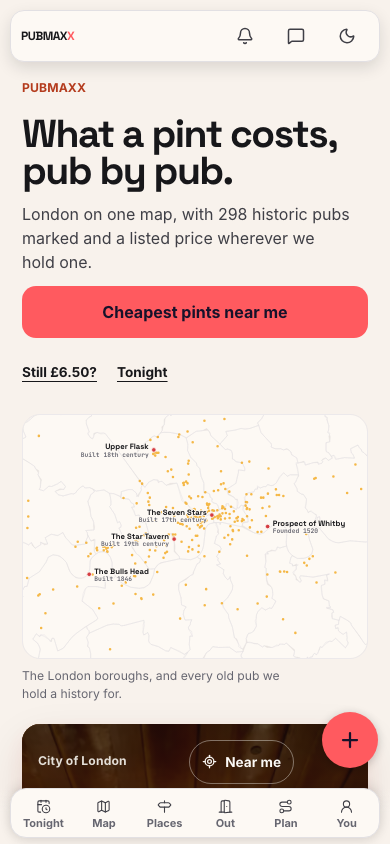
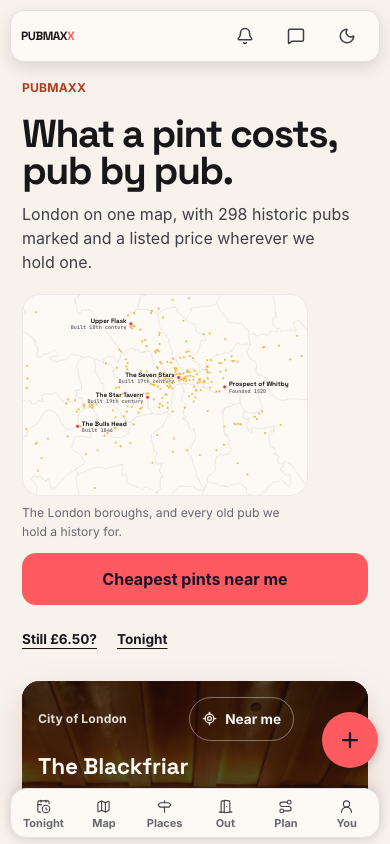
no-mistakes(review): Keep hero picture-before-primary; size drawing from viewport height

diff --git a/components/landing/landing.css b/components/landing/landing.css
@@ -617,31 +617,23 @@ a.lpPubPint:hover { color: var(--ink); }
   .lpAnswerCard { width: 100%; }
 }
 
-/* Phone: the answer sits between the heading and the tap, so the heading
-   gives up one size step and the card its outer padding, and the whole
-   screen still reads kicker, claim, answer, action inside 844px. */
+/* Below the desktop grid the picture sits between the lede and the one filled
+   action, so it is drawn from the screen's height rather than its width: the
+   primary stays above the fold on a short phone, and the figure stops short of
+   the compose action's lane. */
 @media (max-width: 959px) {
-  /* Phone: headline and the one filled action stay above the fold; the London
-     drawing follows. DOM order is unchanged for desktop grid and SSR tests;
-     visual order is kicker, claim, lede, actions, picture. */
-  .lpHero .screenHead {
-    display: grid;
-  }
-  .lpHero .screenHead > .kicker { order: 1; }
-  .lpHero .screenTitle { order: 2; }
-  .lpHero .screenLede { order: 3; }
-  .lpHero .screenActions { order: 4; margin-top: 0; }
-  .lpHero .screenAnswer { order: 5; margin-top: var(--space-2); }
-  .lpMapSnapshot {
-    max-height: min(38vh, 260px);
-    width: auto;
-    margin-inline: auto;
-  }
-  .lpMapCaption {
-    padding-inline-end: var(--create-fab-lane);
+  .lpHero .lpMapFigure {
+    width: min(
+      calc(100% + var(--page-gutter) - var(--create-fab-lane)),
+      34rem,
+      max(14rem, calc(24svh * 1200 / 851))
+    );
   }
 }
 
+/* Phone: the answer sits between the heading and the tap, so the heading
+   gives up one size step and the card its outer padding, and the whole
+   screen still reads kicker, claim, answer, action inside 844px. */
 @media (max-width: 700px) {
   .lpHero { padding-top: 80px; gap: var(--space-5); }
   .lpHero .screenTitle { font-size: clamp(2.125rem, 10vw, 2.75rem); line-height: .94; }
@@ -650,6 +642,7 @@ a.lpPubPint:hover { color: var(--ink); }
   .lpHero .lpPubPrice .priceBadge { font-size: var(--text-base); min-block-size: 2.1rem; }
   .lpHero .lpPubThen { margin-top: var(--space-1); padding-top: var(--space-2); font-size: var(--text-sm); }
   .lpHero .lpRailLink { min-height: 52px; }
+  .lpHero .screenActions { margin-top: 0; }
 }
 
 

diff --git a/__tests__/mobileChromeFit.test.ts b/__tests__/mobileChromeFit.test.ts
@@ -376,18 +376,9 @@ describe("mobile chrome fit at 390px", () => {
     // The answer sits between the heading and the tap (#1357), so on a phone
     // the heading drops a step and the card its outer padding; the rendered
     // fold is measured in e2e/landing-find-my-pint.spec.ts.
-    const phone =
-      landingCss.match(
-        /@media \(max-width: 700px\) {\s*\n\s*\.lpHero \{[\s\S]*?\.lpHero \.screenTitle\s*{([^}]*)}/,
-      )?.[1] ?? "";
+    const phone = landingCss.match(/@media \(max-width: 700px\) {[\s\S]*?\.lpHero \.screenTitle\s*{([^}]*)}/)?.[1] ?? "";
     expect(phone, "phone override for the hero heading").toMatch(/font-size:\s*clamp\(2\.125rem/);
     expect(landingCss).toMatch(/@media \(max-width: 700px\) {[\s\S]*?\.lpHero \.lpAnswerCard\s*{[^}]*padding:\s*var\(--space-4\)/);
-    expect(landingCss).toMatch(
-      /@media \(max-width: 959px\) {[\s\S]*?\.lpHero \.screenActions\s*{[^}]*order:\s*4/,
-    );
-    expect(landingCss).toMatch(
-      /@media \(max-width: 959px\) {[\s\S]*?\.lpHero \.screenAnswer\s*{[^}]*order:\s*5/,
-    );
   });
 });
 
